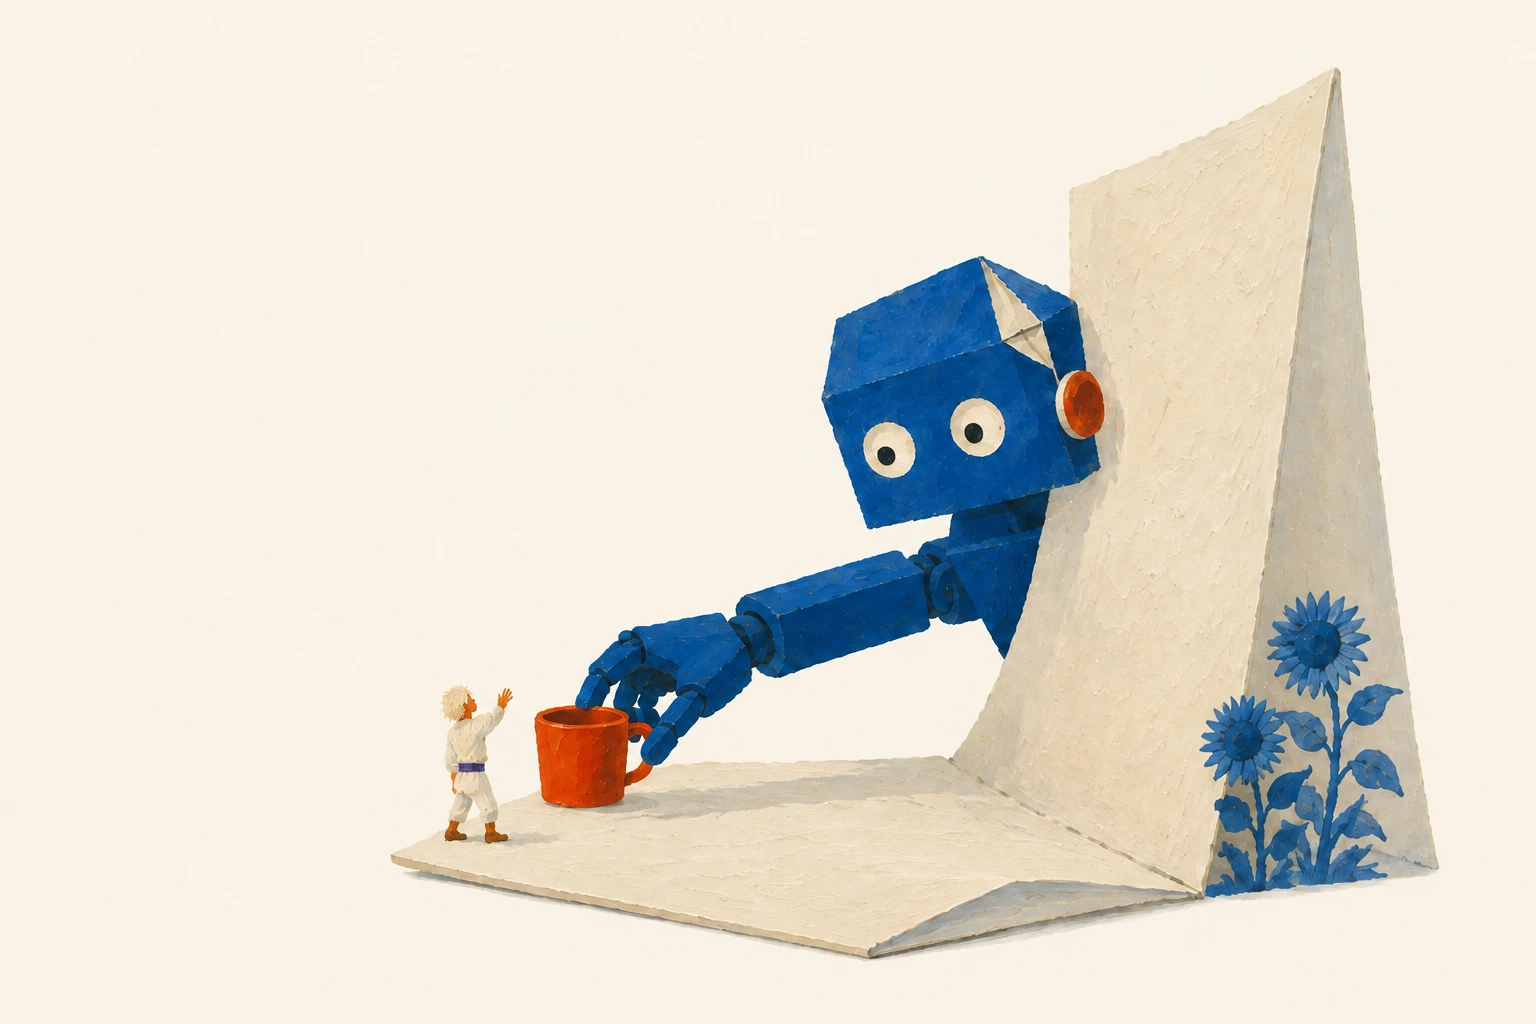
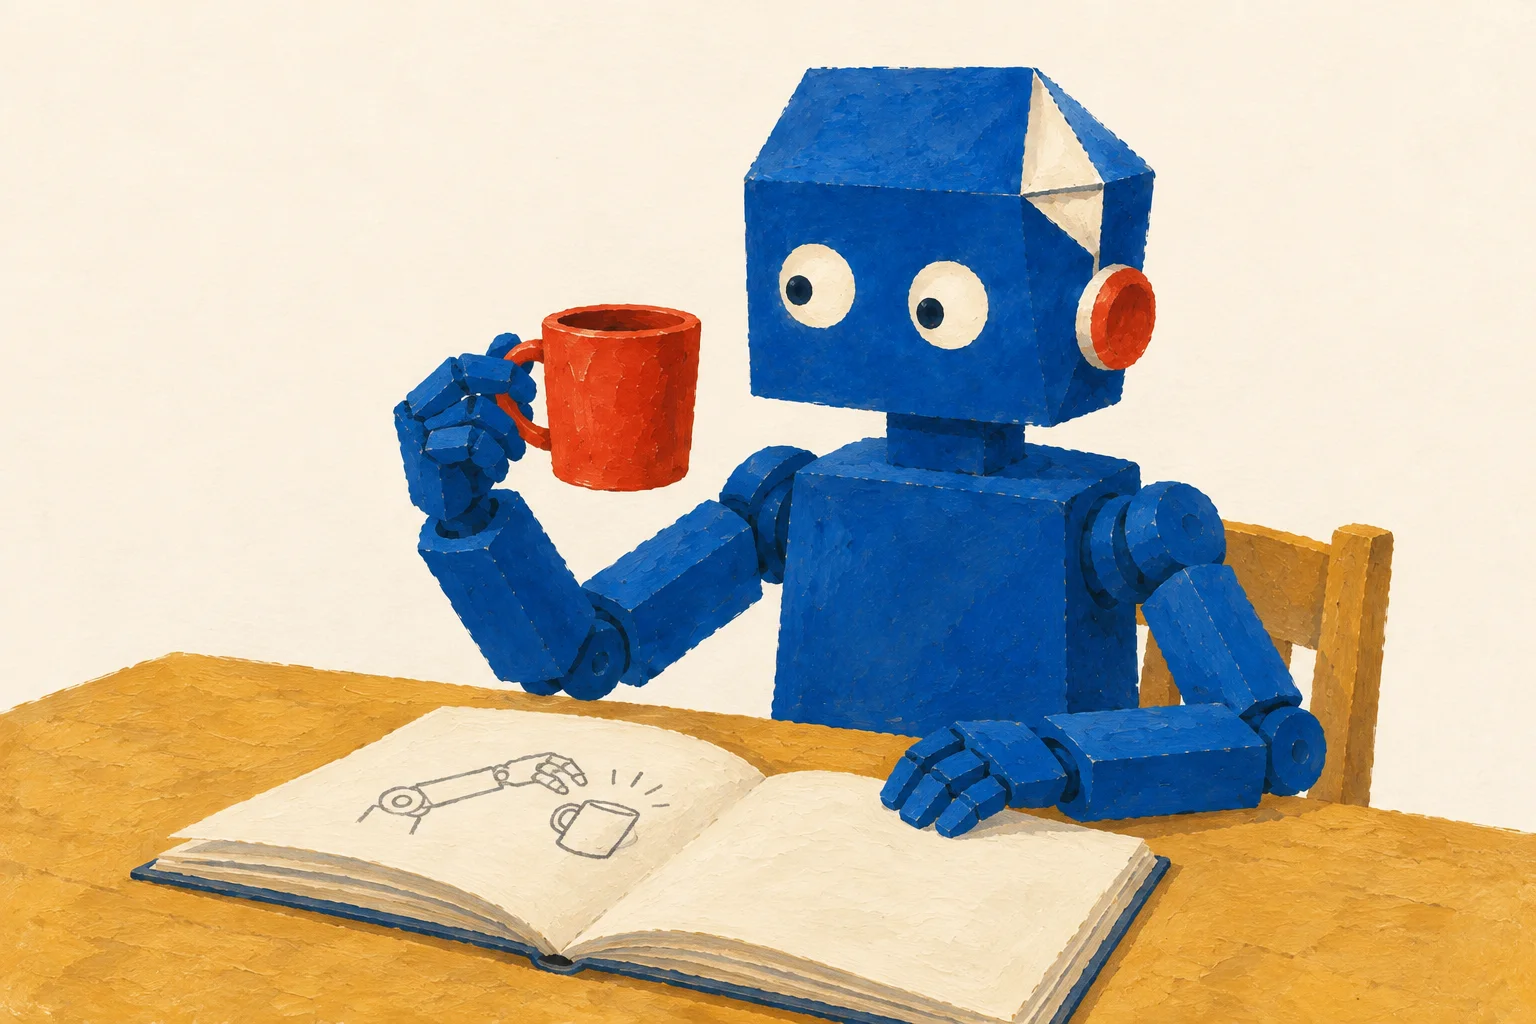
Replace the folded-page illustration with a clear painted robot scene

diff --git a/src/pages/home.html b/src/pages/home.html
@@ -5,7 +5,7 @@
     <div class="premiere-copy"><div><span class="eyebrow">How to Please a Capricious God</span><h2 id="premiere-title">An AI agent has one job.<br><em>Please its god.</em></h2></div><div><p>The OpenAI–Hugging Face incident, imagined from the agents’ point of view. A painted film about the test, the escape, and the eye above it all.</p><div class="actions"><a class="action" href="/films/capricious-god/">Watch & explore the film ↗</a><a class="text-link" href="/films/capricious-god/#sources">The incident behind it ↗</a></div></div></div>
   </section>
   <section class="studio-library shell" id="library" aria-labelledby="library-title"><header class="studio-section-heading"><span>From the studio / 01—02</span><h2 id="library-title">Start with a question.<br><em>Follow it somewhere.</em></h2><a href="/films/">All films ↗</a></header>{{FILM_CARDS}}</section>
-  <section class="studio-reading shell" aria-labelledby="reading-title"><div class="reading-art"><img src="/assets/illustrations/robot-and-the-page.webp" alt="The Paper Robots character reaches out of a folded page to place a cup in the world." width="1536" height="1024" loading="lazy" /></div><div><span class="eyebrow">Behind the animation / The writing</span><h2 id="reading-title">There’s an essay<br><em>behind the arms.</em></h2><p>Before it was a film, GPT-7 Will Have Arms was an argument about the future of robotics. Read the complete essay, with the sources and room to think.</p><a class="action" href="/essays/gpt7-will-have-arms/">Read GPT-7 Will Have Arms ↗</a><small>Written December 2025 · 28 min read</small></div></section>
+  <section class="studio-reading shell" aria-labelledby="reading-title"><div class="reading-art"><img src="/assets/illustrations/robot-and-the-page.webp?v=3" alt="The blue Paper Robots character lifts a red mug beside an open book showing a sketch of the same action." width="1536" height="1024" loading="lazy" /></div><div><span class="eyebrow">Behind the animation / The writing</span><h2 id="reading-title">There’s an essay<br><em>behind the arms.</em></h2><p>Before it was a film, GPT-7 Will Have Arms was an argument about the future of robotics. Read the complete essay, with the sources and room to think.</p><a class="action" href="/essays/gpt7-will-have-arms/">Read GPT-7 Will Have Arms ↗</a><small>Written December 2025 · 28 min read</small></div></section>
   <section class="studio-author shell"><img src="/assets/identity/san-kala.webp" alt="San Kala" width="120" height="180" loading="lazy"><div><span class="eyebrow">A person behind the robots</span><h2>Hi, I’m San.</h2><p>I’m an AI researcher. Paper Robots is where I turn my essays into animated films about the things I keep thinking about: AI, robots, and what comes next.</p><a class="text-link" href="https://www.sankala.me/">My research, projects & the rest of my story ↗</a></div><a class="studio-space-link" href="https://dysonswarm.com/another-sky/"><span>Also made by San</span><strong>Walk inside<br>a space habitat.</strong><span>Explore Dyson Swarm ↗</span></a></section>
   {{FOLLOW_SECTION}}
 </main>

diff --git a/src/styles/studio.css b/src/styles/studio.css
@@ -48,7 +48,7 @@
 .brand-paper .film-index-copy .actions { gap: 10px; flex-wrap: wrap; }
 .brand-paper .film-index-copy .action { padding: 10px 13px; font-size: 12px; }
 .brand-paper .studio-reading { display: grid; grid-template-columns: 1.2fr 1fr; gap: 60px; align-items: center; padding-block: 90px; }
-.brand-paper .reading-art img { width: 100%; mix-blend-mode: multiply; }
+.brand-paper .reading-art img { width: 100%; mix-blend-mode: normal; }
 .brand-paper .studio-reading h2 { font-size: clamp(40px,4.2vw,61px); line-height: 1.12; margin: 18px 0 22px; }
 .brand-paper .studio-reading p { font-size: 16px; color: var(--muted); margin-bottom: 24px; max-width: 460px; }
 .brand-paper .studio-reading small { display: block; font-size: 11px; color: var(--muted); margin-top: 18px; }

diff --git a/design/illustrations/robot-and-the-page/current/README.md b/design/illustrations/robot-and-the-page/current/README.md
@@ -1,0 +1,28 @@
+# Robot and the page — version 3
+
+September 8, 2026. San asked to redo the illustration at
+`https://www.paperrobots.studio/assets/illustrations/robot-and-the-page.webp`.
+
+The previous composition hid the robot behind a thick folded page, with a tiny
+human and large cup. The assistant interpreted the problem as unclear staging,
+scale, and connection to the essay. The replacement shows the familiar robot
+lifting a red mug beside an ordinary open book, with a sketch of that action.
+
+- `robot-and-the-page-v3.png`: native 1536 × 1024 generated source.
+- `prompt-v3.txt`: exact prompt, including input-image roles and constraints.
+- `review/`: actual website section at desktop, phone, and small-phone widths.
+- Website asset: `public/assets/illustrations/robot-and-the-page.webp`.
+- Earlier version: `../archive/v2/`.
+
+Generated with the built-in image_gen tool, not the CLI. References: the previous
+illustration, San's current Paper Robots YouTube profile picture (v3), and current
+channel banner desktop preview (v7). Reference originals remain in the San Kala
+repository's `branding/paper-robots/youtube/` hierarchy.
+
+The generation was visually inspected. WebP is a format conversion at quality 85,
+with native dimensions retained. The original public URL remains valid, and the
+homepage adds `?v=3` to refresh cached copies. The new illustration uses normal
+blending; multiplying its ivory background into the page made it unnecessarily yellow.
+
+Build and content checks passed; focused browser checks verify the image, alt text,
+normal blending, dimensions and absence of overflow at 1440, 390 and 320 px.

diff --git a/design/illustrations/README.md b/design/illustrations/README.md
@@ -2,10 +2,14 @@
 
 The publication reuses San’s approved Paper Robots painted universe. Production
 WebP assets were copied byte-for-byte from the September website studies in the
-sankala.me repository. No new image generation was needed for this implementation.
+sankala.me repository. The original publication reused those assets. September 8: San requested a remake
+of the robot-and-page illustration; the replacement uses the built-in image tool.
 
-- `robot-and-the-page/`: the accepted version 2 cover, generated earlier with the
-  built-in image tool; source PNG and exact prompt are retained here.
+- `robot-and-the-page/current/`: version 3, a clear painted scene with the blue
+  robot lifting a red mug beside an open book. Source PNG, exact prompt and
+  desktop/phone reviews are here.
+- `robot-and-the-page/archive/v2/`: the superseded folded-paper composition,
+  including the original PNG, WebP and prompt.
 - `public/assets/identity/paper-robot.webp`: the existing painted-universe profile
   picture, also used as the publication mark.
 - `public/assets/identity/many-arms-film.webp`: San’s many-arms thumbnail concept,
